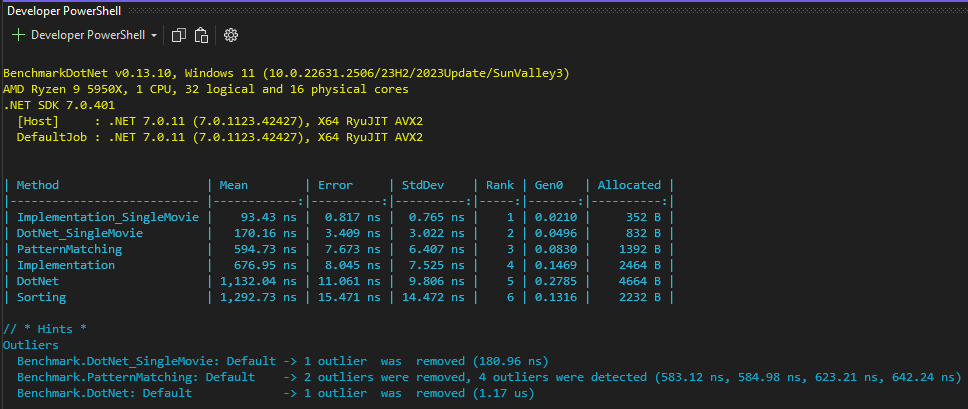
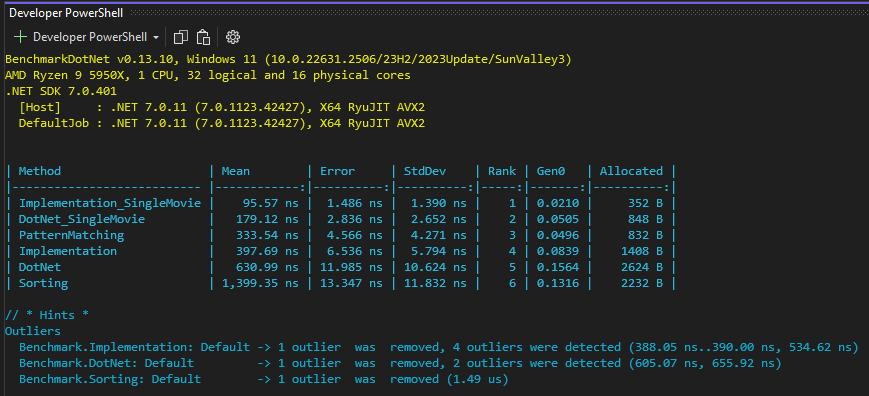
updated Movie list, only the sorting example uses multiple items with the same Title updatedbenchmarks.png

Changed region(s): [[0.0, 0.4242, 0.7768, 0.7576], [0.0, 0.0, 1.0, 0.3636], [0.0, 0.7879, 0.9942, 0.9697]]

diff --git a/IteratorImplementation/Example.cs b/IteratorImplementation/Example.cs
@@ -9,9 +9,6 @@ public class Example
     protected static Movie dumbWaiter = new("The Dumb Waiter", new Iterator<string>(new[] { "Geraldine Jones" }), 1979);
     protected static Movie eraserHead = new("Eraser Head", new Iterator<string>(new[] { "Jack Nance", "Charlotte Stewart", "Allen Joseph" }), 1977);
     protected static Movie piTheMovie = new("Pi", new Iterator<string>(new[] { "Sean Gullette", "Mark Margolis", "Ben Shenkman" }), 1998);
-    protected static Movie dumbWaiter1 = new("The Dumb Waiter", new Iterator<string>(new[] { "Geraldine Jones", "John White" }), 1979);
-    protected static Movie dumbWaiter2 = new("The Dumb Waiter", new Iterator<string>(new[] { "Bobby Dunn", "Eddie Lyons" }), 1924);
-    protected static Movie dumbWaiter3 = new("The Dumb Waiter", new Iterator<string>(new[] { "Boris Komnenic", "Dragon Petrovic-Pele" }), 1999);
 
 
     protected static string FormatMovie(Movie movie)
@@ -42,8 +39,5 @@ public class Example
         Console.WriteLine(FormatMovie(dumbWaiter));
         Console.WriteLine(FormatMovie(eraserHead));
         Console.WriteLine(FormatMovie(piTheMovie));
-        Console.WriteLine(FormatMovie(dumbWaiter1));
-        Console.WriteLine(FormatMovie(dumbWaiter2));
-        Console.WriteLine(FormatMovie(dumbWaiter3));
     }
 }

diff --git a/DotNetIterator/Example.cs b/DotNetIterator/Example.cs
@@ -10,9 +10,6 @@ public class Example
     protected static Movie dumbWaiter = new("The Dumb Waiter", new[] { "Geraldine Jones" }, 1979);
     protected static Movie eraserHead = new("Eraser Head", new[] { "Jack Nance", "Charlotte Stewart", "Allen Joseph" }, 1977);
     protected static Movie piTheMovie = new("Pi", new[] { "Sean Gullette", "Mark Margolis", "Ben Shenkman" }, 1998);
-    protected static Movie dumbWaiter1 = new("The Dumb Waiter", new[] { "Geraldine Jones", "John White" }, 1979);
-    protected static Movie dumbWaiter2 = new("The Dumb Waiter", new[] { "Bobby Dunn", "Eddie Lyons" }, 1924);
-    protected static Movie dumbWaiter3 = new("The Dumb Waiter", new[] { "Boris Komnenic", "Dragon Petrovic-Pele" }, 1999);
 
 
     protected static string FormatMovie(Movie movie)
@@ -42,8 +39,5 @@ public class Example
         Console.WriteLine(FormatMovie(dumbWaiter));
         Console.WriteLine(FormatMovie(eraserHead));
         Console.WriteLine(FormatMovie(piTheMovie));
-        Console.WriteLine(FormatMovie(dumbWaiter1));
-        Console.WriteLine(FormatMovie(dumbWaiter2));
-        Console.WriteLine(FormatMovie(dumbWaiter3));
     }
 }

diff --git a/Benchmarks/Benchmarks.cs b/Benchmarks/Benchmarks.cs
@@ -8,13 +8,10 @@ internal class DotNetBenchmark : dotnet_iterator.Example
         _ = FormatMovie(dumbWaiter);
         _ = FormatMovie(eraserHead);
         _ = FormatMovie(piTheMovie);
-        _ = FormatMovie(dumbWaiter1);
-        _ = FormatMovie(dumbWaiter2);
-        _ = FormatMovie(dumbWaiter3);
     }
 
     public static void RunSingleMovieBenchmark()
-        => _ = FormatMovie(dumbWaiter3);
+        => _ = FormatMovie(eraserHead);
 }
 
 internal class ImplementationBenchmark : iterator_implementation.Example
@@ -25,13 +22,10 @@ internal class ImplementationBenchmark : iterator_implementation.Example
         _ = FormatMovie(dumbWaiter);
         _ = FormatMovie(eraserHead);
         _ = FormatMovie(piTheMovie);
-        _ = FormatMovie(dumbWaiter1);
-        _ = FormatMovie(dumbWaiter2);
-        _ = FormatMovie(dumbWaiter3);
     }
 
     public static void RunSingleMovieBenchmark() 
-        => _ = FormatMovie(dumbWaiter3);
+        => _ = FormatMovie(eraserHead);
 }
 
 internal class PatternMatchingBenchmark : pattern_matching.Example

diff --git a/PatternMatching/Example.cs b/PatternMatching/Example.cs
@@ -10,9 +10,6 @@ public class Example
         new("The Dumb Waiter", new[] { "Geraldine Jones" }, 1979),
         new("Eraser Head", new[] { "Jack Nance", "Charlotte Stewart", "Allen Joseph" }, 1977),
         new("Pi", new[] { "Sean Gullette", "Mark Margolis", "Ben Shenkman" }, 1998),
-        new("The Dumb Waiter", new[] { "Geraldine Jones", "John White" }, 1979),
-        new("The Dumb Waiter", new[] { "Bobby Dunn", "Eddie Lyons" }, 1924),
-        new("The Dumb Waiter", new[] { "Boris Komnenic", "Dragon Petrovic-Pele" }, 1999),
     };
 
     protected static string FormatMovie(Movie movie) => movie.Stars switch
